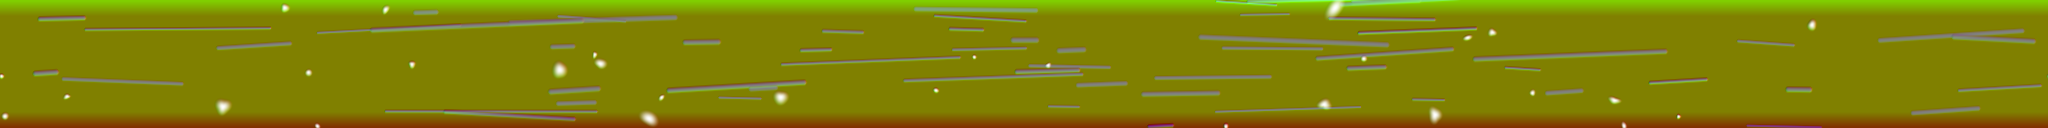
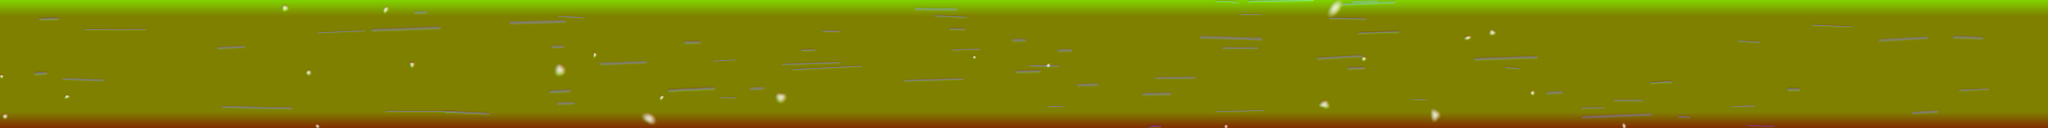
Fix the dark blocks on the coin's rim
The coin's outer side is not a perfect cylinder — its radius wanders by over
a percent — and it has a vertex ring part-way down, at the field's height. A
ring vertex that fell just inside the bake's radius test for the rim was
given the field's recess depth of 1; the quads below it interpolated that,
and the shader toned them dark like the field. The result was rectangular
blocks on the rim, hard-edged between quads, with a level top at the ring,
that survived tests of the maps, the shadow bias and the environment before
the coinDull debug channel showed the same rectangles. Side vertices are now
told apart by their normal as well as their radius.

Also on the edge: the circumferential grooves were long and deep enough that
each read as a dark trough across the rim, and are now short, fine hairlines;
the edge's dents are lighter. The probe takes --noshadow and --normalBias.

Claude-Session: https://claude.ai/code/session_01DY7GLHKDYbddaKqhU954QH

diff --git a/tools/coin-look.html b/tools/coin-look.html
@@ -60,7 +60,11 @@
       }
 
       const mesh = new THREE.Mesh(assets.geometries.coin, coin.material);
-      mesh.castShadow = mesh.receiveShadow = true;
+      mesh.castShadow = true;
+      mesh.receiveShadow = !params.get('noshadow');
+      if (params.get('normalBias')) {
+        for (const light of scene.children) if (light.isDirectionalLight) light.shadow.normalBias = Number(params.get('normalBias'));
+      }
       mesh.position.set(0, TRAY.floorY + assets.info.coin.inradius, 0);
       if (params.get('tails')) mesh.rotation.x = Math.PI;
       mesh.rotation.y = Number(params.get('yaw') || 0.4);

diff --git a/README.md b/README.md
@@ -553,6 +553,15 @@ seams: on an irregularly faceted surface the two faces either side of an edge se
 different sets, get different normals for the same point, and the edge shows,
 with the baked scratches jumping across it.
 
+The coin's outer side is told apart by its normal as well as its radius. It is
+not a perfect cylinder — its radius wanders by over a percent — and it has a
+vertex ring part-way down, at the field's height; a ring vertex that fell just
+inside the radius test was given the field's recess depth, the quads below it
+interpolated that, and the shader toned them dark like the field: rectangular
+blocks on the rim, hard-edged between quads, with a level top at the ring, that
+survived every test of the maps, the shadows and the reflections before the
+`coinDull` debug channel showed the same rectangles.
+
 The asset build stores how deep into a recess each vertex sits in the UV slot the
 coin has no use for, and bakes how far each point of the field is from the foot
 of a wall into a 256-pixel map, one channel per face, that the shader samples by
